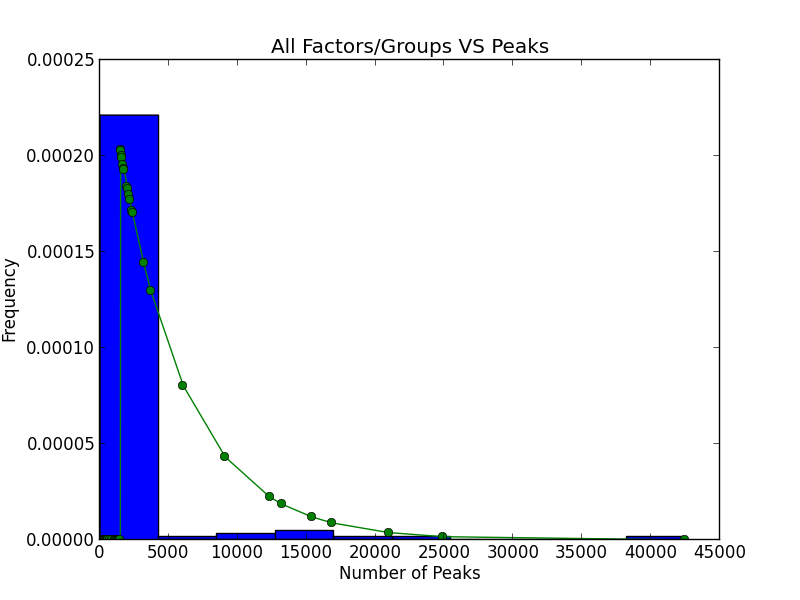
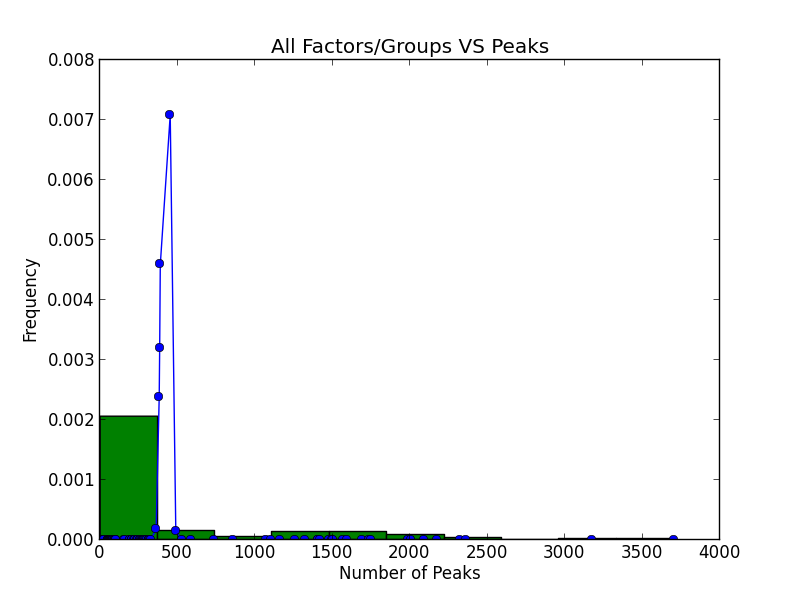
now fitting poisson distribution

diff --git a/makeSummaryPlots.py b/makeSummaryPlots.py
@@ -11,6 +11,7 @@ import numpy as np
 from matplotlib import rcParams
 rcParams.update({'figure.autolayout': True})
 import collections
+import scipy
 from scipy import stats
 
 def createPeakSummaryPlots(inputPath,outPath):
@@ -58,13 +59,17 @@ def createPeakSummaryPlots(inputPath,outPath):
 
 		
 	# plot the number of peaks per group/factor
+	from scipy import cluster
 	sortedValues = sorted(groupPeaksHash.values())
-	plt.hist(sortedValues, normed=True)
-	# fit a exponential distribution
-	p = np.mean(sortedValues)
-	#fit = [math.pow(1-p,x-1)*p for x in range(np.max(sortedValues))]
-	fit = stats.expon.pdf(sortedValues, np.mean(sortedValues), np.std(sortedValues))
+	centroid = sorted(cluster.vq.kmeans(np.array(sortedValues), 3)[0])[1]
+	std = np.std(sortedValues)
+	mean = np.mean(sortedValues)
+	sortedValues = [x for x in sortedValues if abs(x-centroid)<=std/2.0]
+	# fit a poisson distribution
+	param = np.mean(sortedValues)
+	fit = stats.poisson.pmf(sortedValues, param)
 	plt.plot(sortedValues,fit,'-o')
+	plt.hist(sortedValues, normed=True, bins=10)
 
 	plt.xlabel("Number of Peaks")
 	plt.ylabel("Frequency")
@@ -173,6 +178,6 @@ def createMotifSummaryPlots(inputPath, outputPath):
 	plt.close()		
 
 if __name__ == "__main__":
-	#createPeakSummaryPlots(sys.argv[1],sys.argv[2])
-	createMotifSummaryPlots(sys.argv[1],sys.argv[2])
+	createPeakSummaryPlots(sys.argv[1],sys.argv[2])
+	#createMotifSummaryPlots(sys.argv[1],sys.argv[2])
 	
